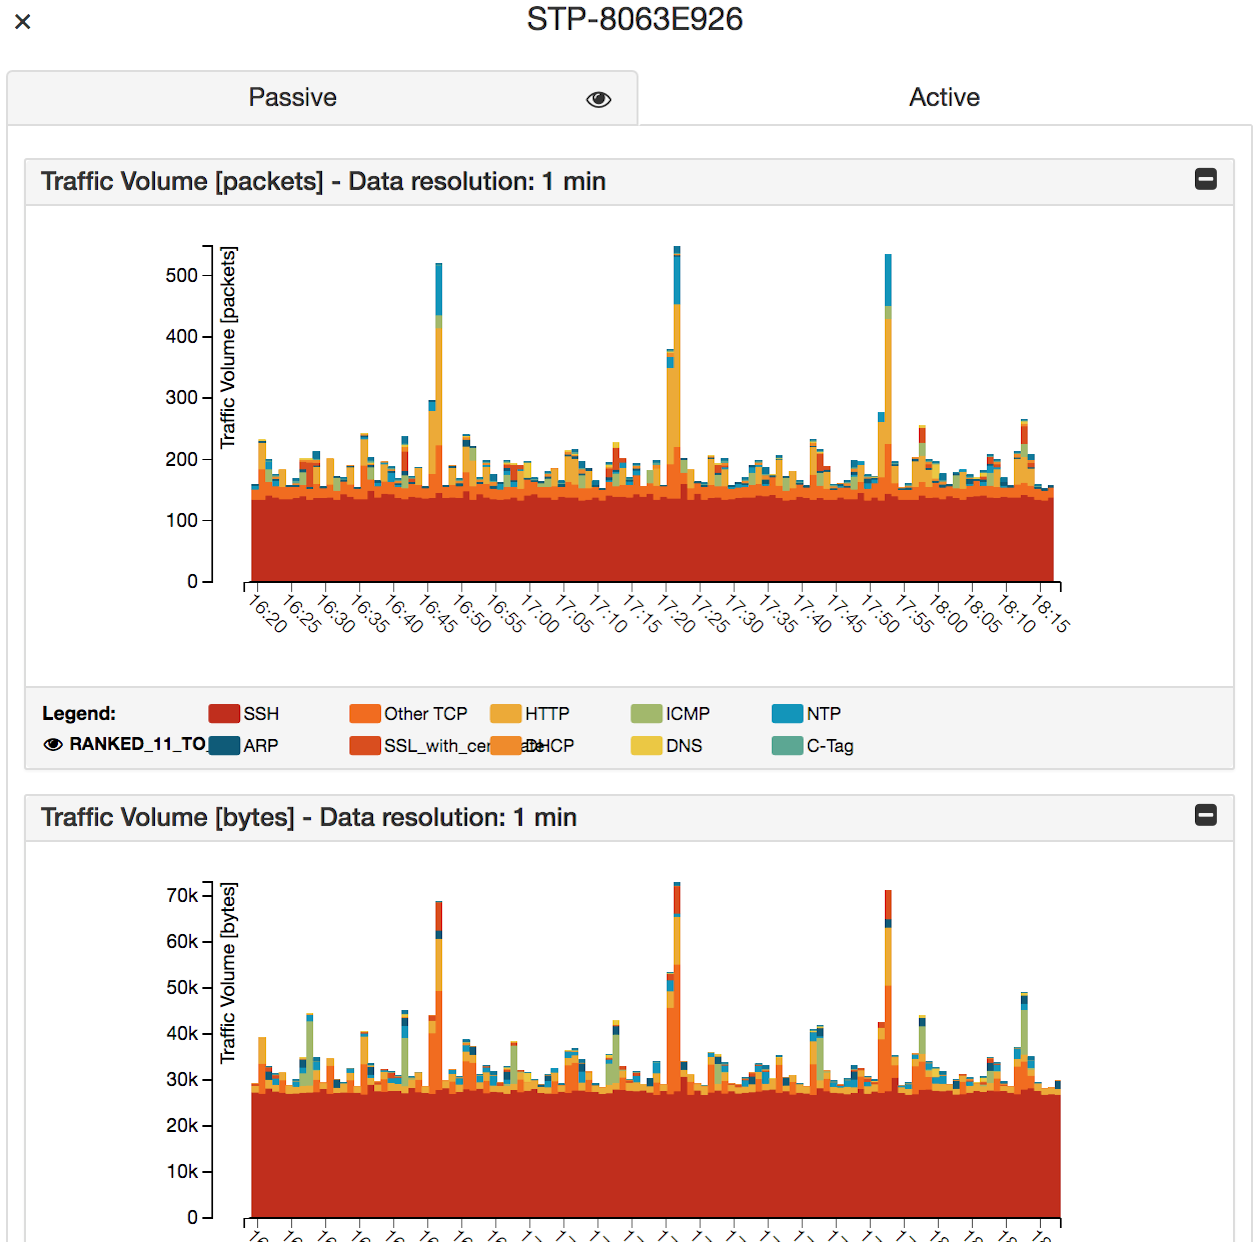
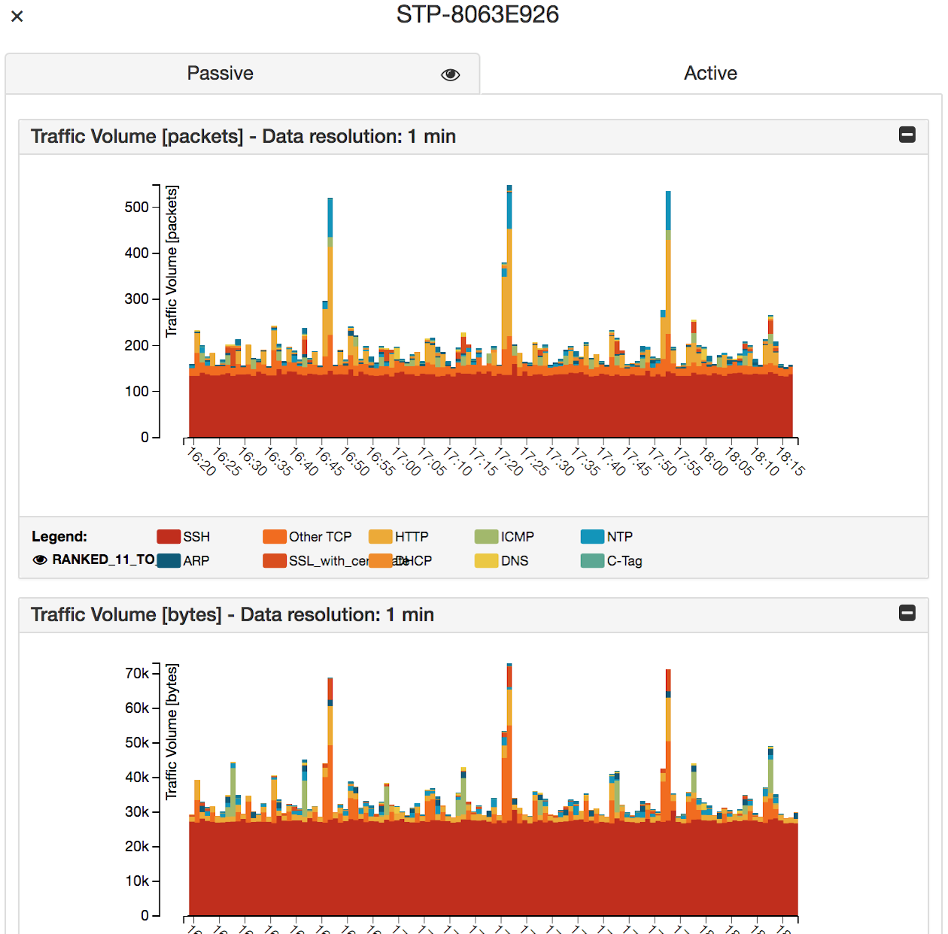
Rescaled an image

diff --git a/index.md b/index.md
@@ -77,7 +77,7 @@ Using the input boxes on the top bar of the table, the user can filter the probe
 
 Clicking on a row in the details view opens a new section showing information regarding the active and passive sides of a probe. The passive tab shows the data collected by the probe in a time based format aggregated by application (for more info on the section, please refer to [time based](#time-based)), while the active tab displays information regarding the active measurements campaign started on the probe.
 
-![home-passive-view](https://raw.githubusercontent.com/NM2/smartie-doc/master/images/passive/home-passive-view.png?style=centerme)
+![home-passive-view](images/passive/home-passive-view.png?style=centerme)
 
 ![home-active-view](https://raw.githubusercontent.com/NM2/smartie-doc/master/images/passive/home-active-view.png?style=centerme)
 
